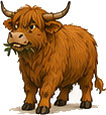
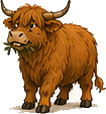
Connect cover composition: stage all three characters at the fence
Rework cover as a single scene with the fence as compositional spine:
Rocky leans over it chewing pinched greens, Cleo on duty at the rail,
Will watching on the near side. Aligned the drawn fence to Will's own
crop-fence rails so it reads continuous; cleaned Rocky's foot matte.

Claude-Session: https://claude.ai/code/session_01Nm6TZyLSCgBSahM5ZRqHTG

diff --git a/picture-book/cover-dev/comp-v3.html b/picture-book/cover-dev/comp-v3.html
@@ -1,0 +1,128 @@
+<!DOCTYPE html>
+<html>
+<head>
+<meta charset="utf-8">
+<link rel="stylesheet" href="../fonts.css">
+<style>
+  body { margin: 0; background: #666; font-family: Literata, Georgia, serif; }
+  .f { width: 1000px; height: 1000px; margin: 12px auto; position: relative; overflow: hidden; }
+  .f svg { display: block; width: 100%; height: 100%; }
+</style>
+</head>
+<body>
+<script>
+/* Cover v3 — CONNECTED. The fence is the compositional spine linking all
+   three: Rocky leans over it (cheeky, chewing stolen greens, facing the
+   group), Will on the near side noticing him (phone in hand), Cleo at the
+   rail looking up at Rocky, on duty. Every eyeline converges on Rocky.
+   Story is implied (a loose rail, a stray lettuce) without the breakout.
+   Painted depth, one low-right sun, lower-left shadows. Title placeholder. */
+
+const WOOD = '#9C7350', WOODD = '#7C5A3E', RAIL = '#8A6746';
+
+// Continuous fence aligned to Will's own crop-fence rails (cover-y ~786/816/846).
+function fenceRun(x0, x1) {
+  let posts = '';
+  const n = Math.max(2, Math.round((x1 - x0) / 116));
+  for (let i = 0; i <= n; i++) {
+    const x = x0 + (x1 - x0) * i / n;
+    posts += `<rect x="${x - 7}" y="770" width="14" height="130" rx="5" fill="${WOOD}"/>`;
+  }
+  return `<g>
+    ${posts}
+    <rect x="${x0}" y="784" width="${x1 - x0}" height="10" rx="5" fill="${RAIL}"/>
+    <rect x="${x0}" y="814" width="${x1 - x0}" height="10" rx="5" fill="${RAIL}"/>
+    <rect x="${x0}" y="845" width="${x1 - x0}" height="11" rx="5" fill="${WOODD}"/>
+  </g>`;
+}
+
+function comp(id, sky, o) {
+  o = Object.assign({ sun: '#F7D9A0', far: '#B4BFA0', mid: '#7E9A5E', near: '#55703F', haze: '#EED9B4' }, o);
+  return `
+  <div class="f" id="${id}">
+  <svg viewBox="0 0 1000 1000" xmlns="http://www.w3.org/2000/svg" xmlns:xlink="http://www.w3.org/1999/xlink">
+    <defs>
+      <linearGradient id="sky-${id}" x1="0" y1="0" x2="0" y2="1">
+        ${sky.map(([off, c]) => `<stop offset="${off}" stop-color="${c}"/>`).join('')}
+      </linearGradient>
+      <filter id="soft-${id}" x="-60%" y="-60%" width="220%" height="220%"><feGaussianBlur stdDeviation="8"/></filter>
+    </defs>
+    <rect width="1000" height="1000" fill="url(#sky-${id})"/>
+
+    <!-- sun low-right -->
+    <circle cx="852" cy="300" r="118" fill="${o.sun}" opacity="0.30"/>
+    <circle cx="852" cy="300" r="52" fill="${o.sun}" opacity="0.95"/>
+
+    <!-- far → mid → near hills -->
+    <path d="M0 560 Q 250 480 520 530 T 1000 520 L1000 1000 L0 1000 Z" fill="${o.far}"/>
+    ${o.haze ? `<rect x="0" y="440" width="1000" height="210" fill="${o.haze}" opacity="0.30"/>` : ''}
+    <path d="M0 650 Q 320 575 640 640 T 1000 705 L1000 1000 L0 1000 Z" fill="${o.mid}"/>
+    <path d="M0 840 Q 300 805 620 830 T 1000 865 L1000 1000 L0 1000 Z" fill="${o.near}"/>
+
+    <!-- convergence shadow beneath the whole group (lower-left) -->
+    <ellipse cx="430" cy="928" rx="360" ry="34" fill="#3E5530" opacity="0.26" filter="url(#soft-${id})"/>
+
+    <!-- ROCKY first, then the fence drawn OVER his legs so he reads BEHIND it,
+         head & chest above the rail, facing LEFT toward the group, chewing greens. -->
+    <image href="assets/rocky-14-cut.png" x="360" y="410" width="448" height="481.7" preserveAspectRatio="xMidYMid meet"/>
+
+    <!-- FENCE (spine) aligned to Will's own rails — one continuous line -->
+    ${fenceRun(300, 820)}
+    <!-- one loose rail near Rocky: quiet mischief cue, NOT the breakout -->
+    <rect x="628" y="806" width="150" height="11" rx="5" fill="${WOODD}" transform="rotate(-8 628 812)"/>
+
+    <!-- a stray nibbled lettuce at the fence base (the 'owes me lettuces' wink) -->
+    <g transform="translate(470 900)">
+      <ellipse cx="0" cy="8" rx="20" ry="7" fill="#61472F" opacity="0.4"/>
+      <circle cx="0" cy="-4" r="15" fill="#8FAE62"/>
+      <path d="M-11 -7 q6 -11 11 -2 q6 -11 11 -1" stroke="#6E9448" stroke-width="4" fill="none" stroke-linecap="round"/>
+    </g>
+    <g transform="translate(524 912) scale(0.8)">
+      <circle cx="0" cy="-4" r="14" fill="#8FAE62"/>
+      <path d="M-10 -7 q6 -10 10 -2" stroke="#6E9448" stroke-width="4" fill="none" stroke-linecap="round"/>
+    </g>
+
+    <!-- WILL on the near side, leaning on the fence, phone in hand, noticing Rocky -->
+    <image href="assets/will-15-cut.png" x="86" y="676" width="228" height="232.7" preserveAspectRatio="xMidYMid meet"/>
+
+    <!-- CLEO at the rail, looking UP toward Rocky, on duty (flipped to face right) -->
+    <g transform="translate(430 806) scale(-1,1)">
+      <image href="assets/cleo-05-cut.png" x="0" y="0" width="118" height="120" preserveAspectRatio="xMidYMid meet"/>
+    </g>
+
+    <!-- a little life: a butterfly, up in clear sky away from faces -->
+    <g transform="translate(232 452) scale(1.15)">
+      <ellipse cx="-8" cy="-2" rx="9" ry="12" fill="#D98B66" transform="rotate(-24 -8 -2)"/>
+      <ellipse cx="8" cy="-2" rx="9" ry="12" fill="#D98B66" opacity="0.82" transform="rotate(24 8 -2)"/>
+      <ellipse cx="-7" cy="8" rx="6" ry="8" fill="#E09E7B" transform="rotate(-18 -7 8)"/>
+      <ellipse cx="7" cy="8" rx="6" ry="8" fill="#E09E7B" opacity="0.82" transform="rotate(18 7 8)"/>
+      <rect x="-2" y="-10" width="4" height="22" rx="2" fill="#2B2520"/>
+      <path d="M-2 -10 q-5 -8 -10 -9 M2 -10 q5 -8 10 -9" stroke="#2B2520" stroke-width="2" fill="none" stroke-linecap="round"/>
+    </g>
+
+    <!-- foreground grass breaking the frame edge -->
+    <g fill="${o.near}">
+      <path d="M16 1000 q-6 -70 20 -110 q8 52 12 110 Z" opacity="0.9"/>
+      <path d="M54 1000 q12 -58 40 -80 q-8 42 -14 80 Z" opacity="0.85"/>
+      <path d="M910 1000 q-8 -76 22 -118 q10 54 14 118 Z" opacity="0.9"/>
+      <path d="M956 1000 q14 -60 42 -84 q-10 44 -16 84 Z" opacity="0.85"/>
+    </g>
+
+    <!-- title PLACEHOLDER (hand-lettering to follow) -->
+    <g font-family="Literata, Georgia, serif" fill="#2B2520">
+      <text x="72" y="150" font-size="86" font-weight="700" letter-spacing="-1">Will <tspan font-style="italic" font-weight="400" font-size="56">and the</tspan></text>
+      <text x="72" y="248" font-size="86" font-weight="700" letter-spacing="-1">Missing</text>
+      <text x="72" y="346" font-size="86" font-weight="700" letter-spacing="-1">Highland Cow</text>
+    </g>
+    <text x="72" y="962" font-family="Literata, Georgia, serif" font-style="italic" font-size="30" fill="#4A3F33">Kris Pierce &amp; Will Pierce</text>
+  </svg>
+  </div>`;
+}
+
+document.write(comp('duskA', [[0, '#C9DCE4'], [0.38, '#EED9B4'], [0.62, '#F2C29B']],
+  { far: '#B4BFA0', mid: '#7E9A5E', near: '#55703F' }));
+document.write(comp('coralC', [[0, '#E7B48C'], [0.45, '#EFC79C'], [0.7, '#F2D3A4']],
+  { sun: '#F7E3B2', haze: '#EFC79C', far: '#B9B694', mid: '#7E9A5E', near: '#4E6839' }));
+</script>
+</body>
+</html>